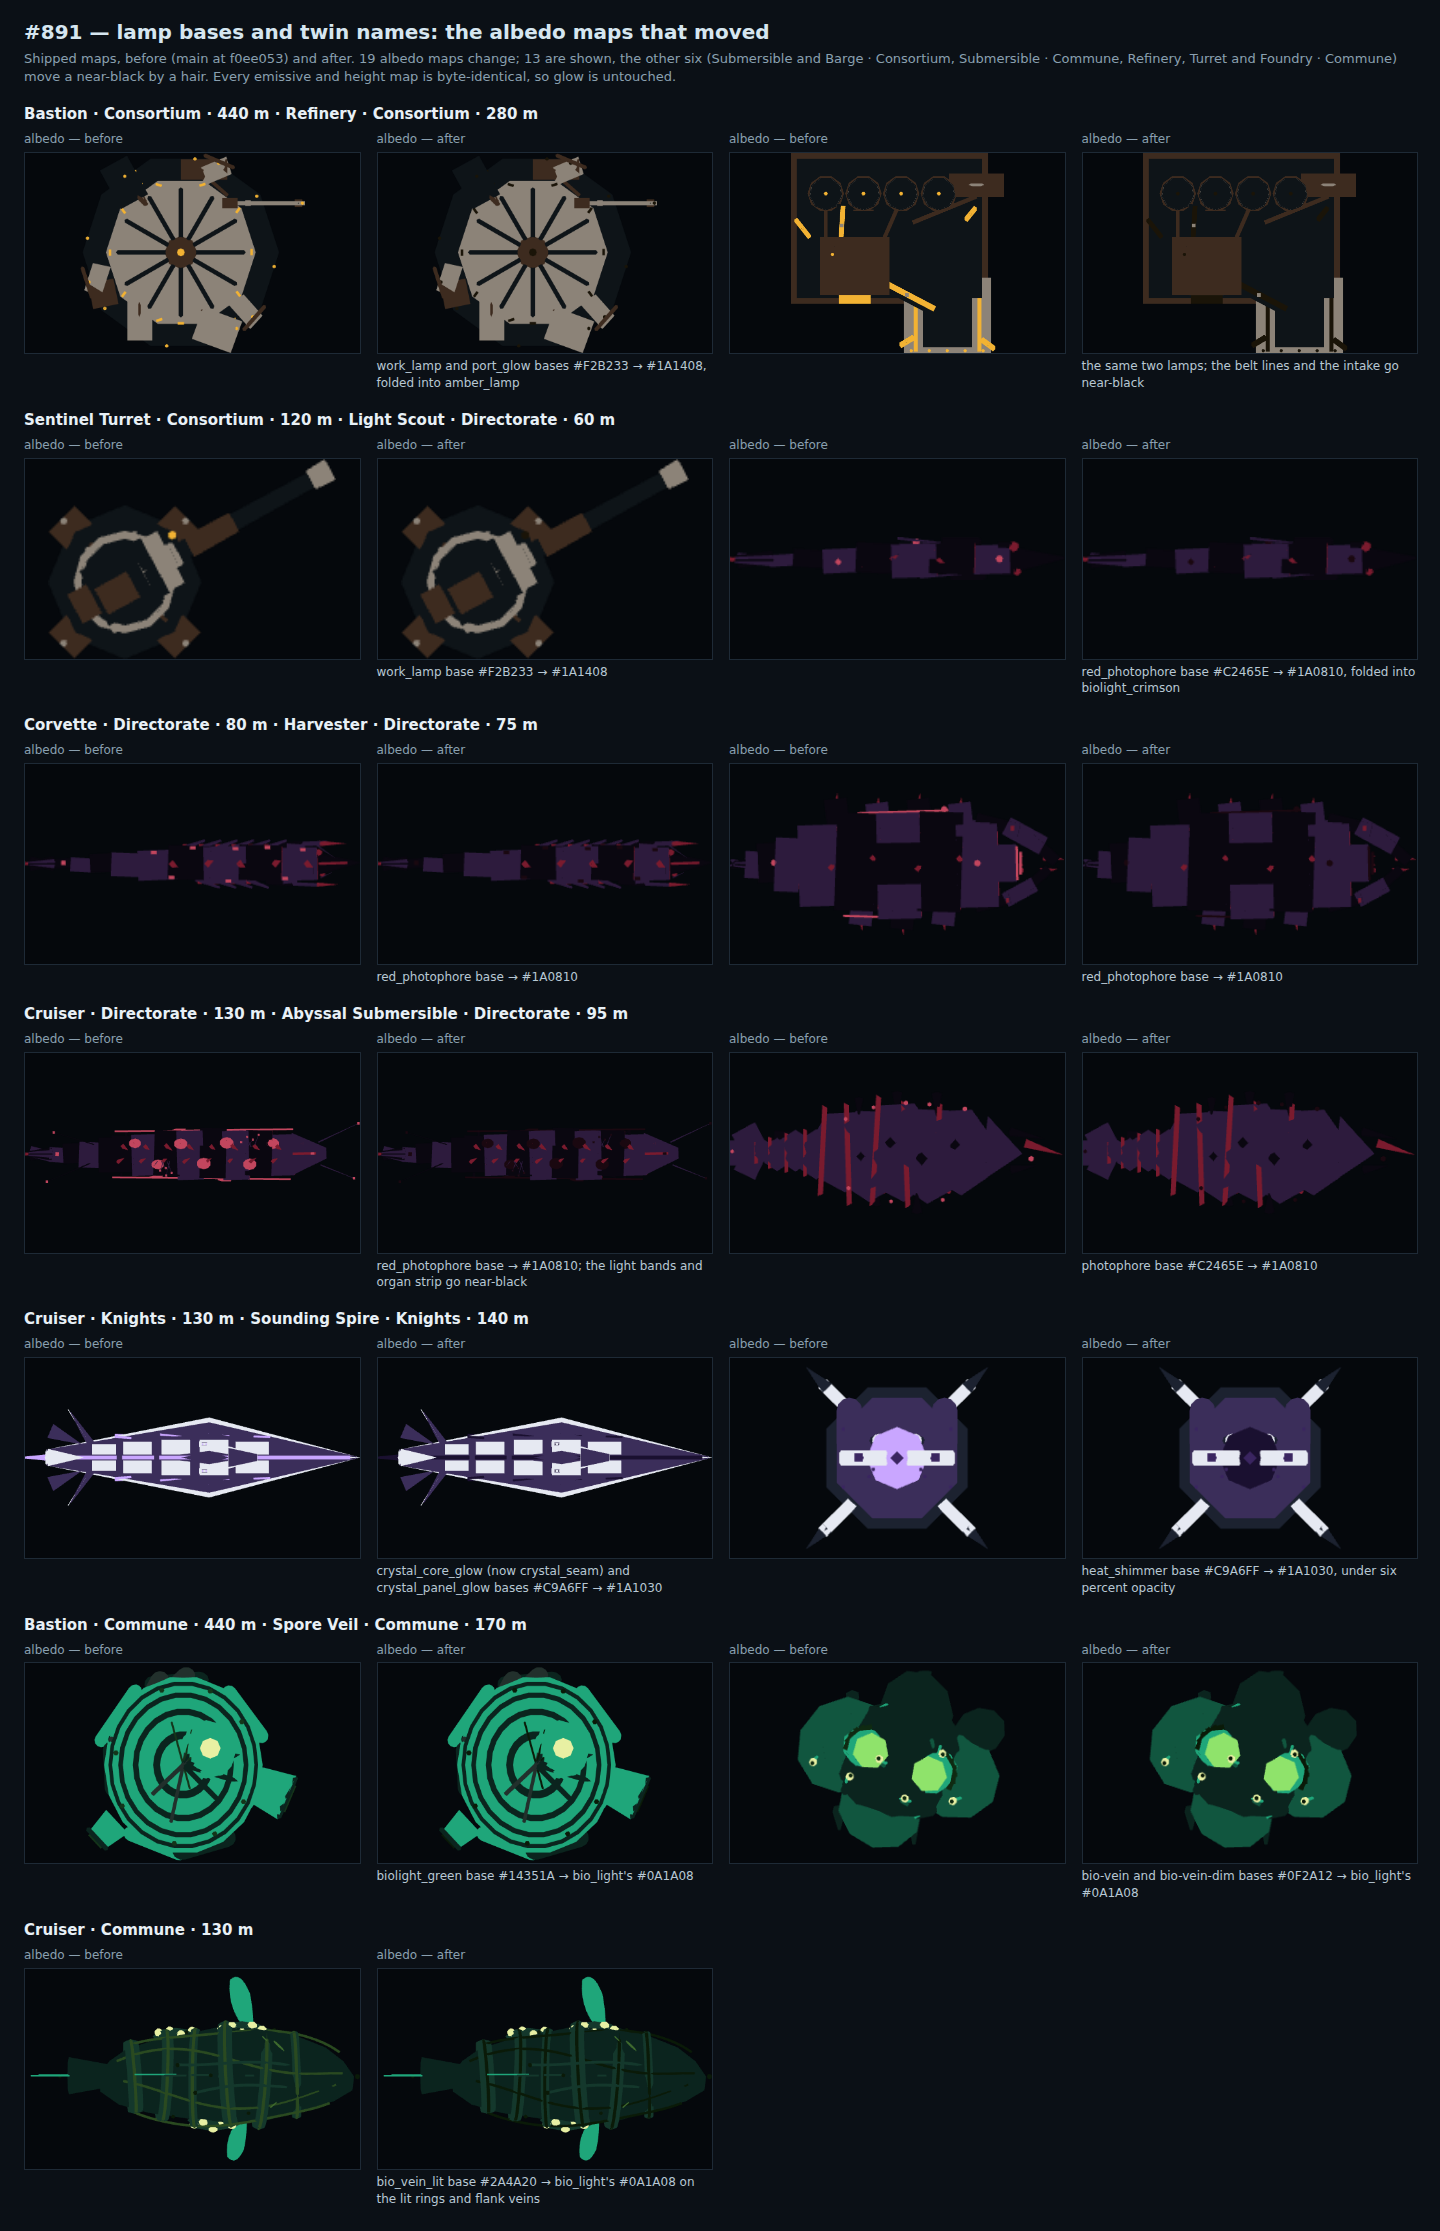
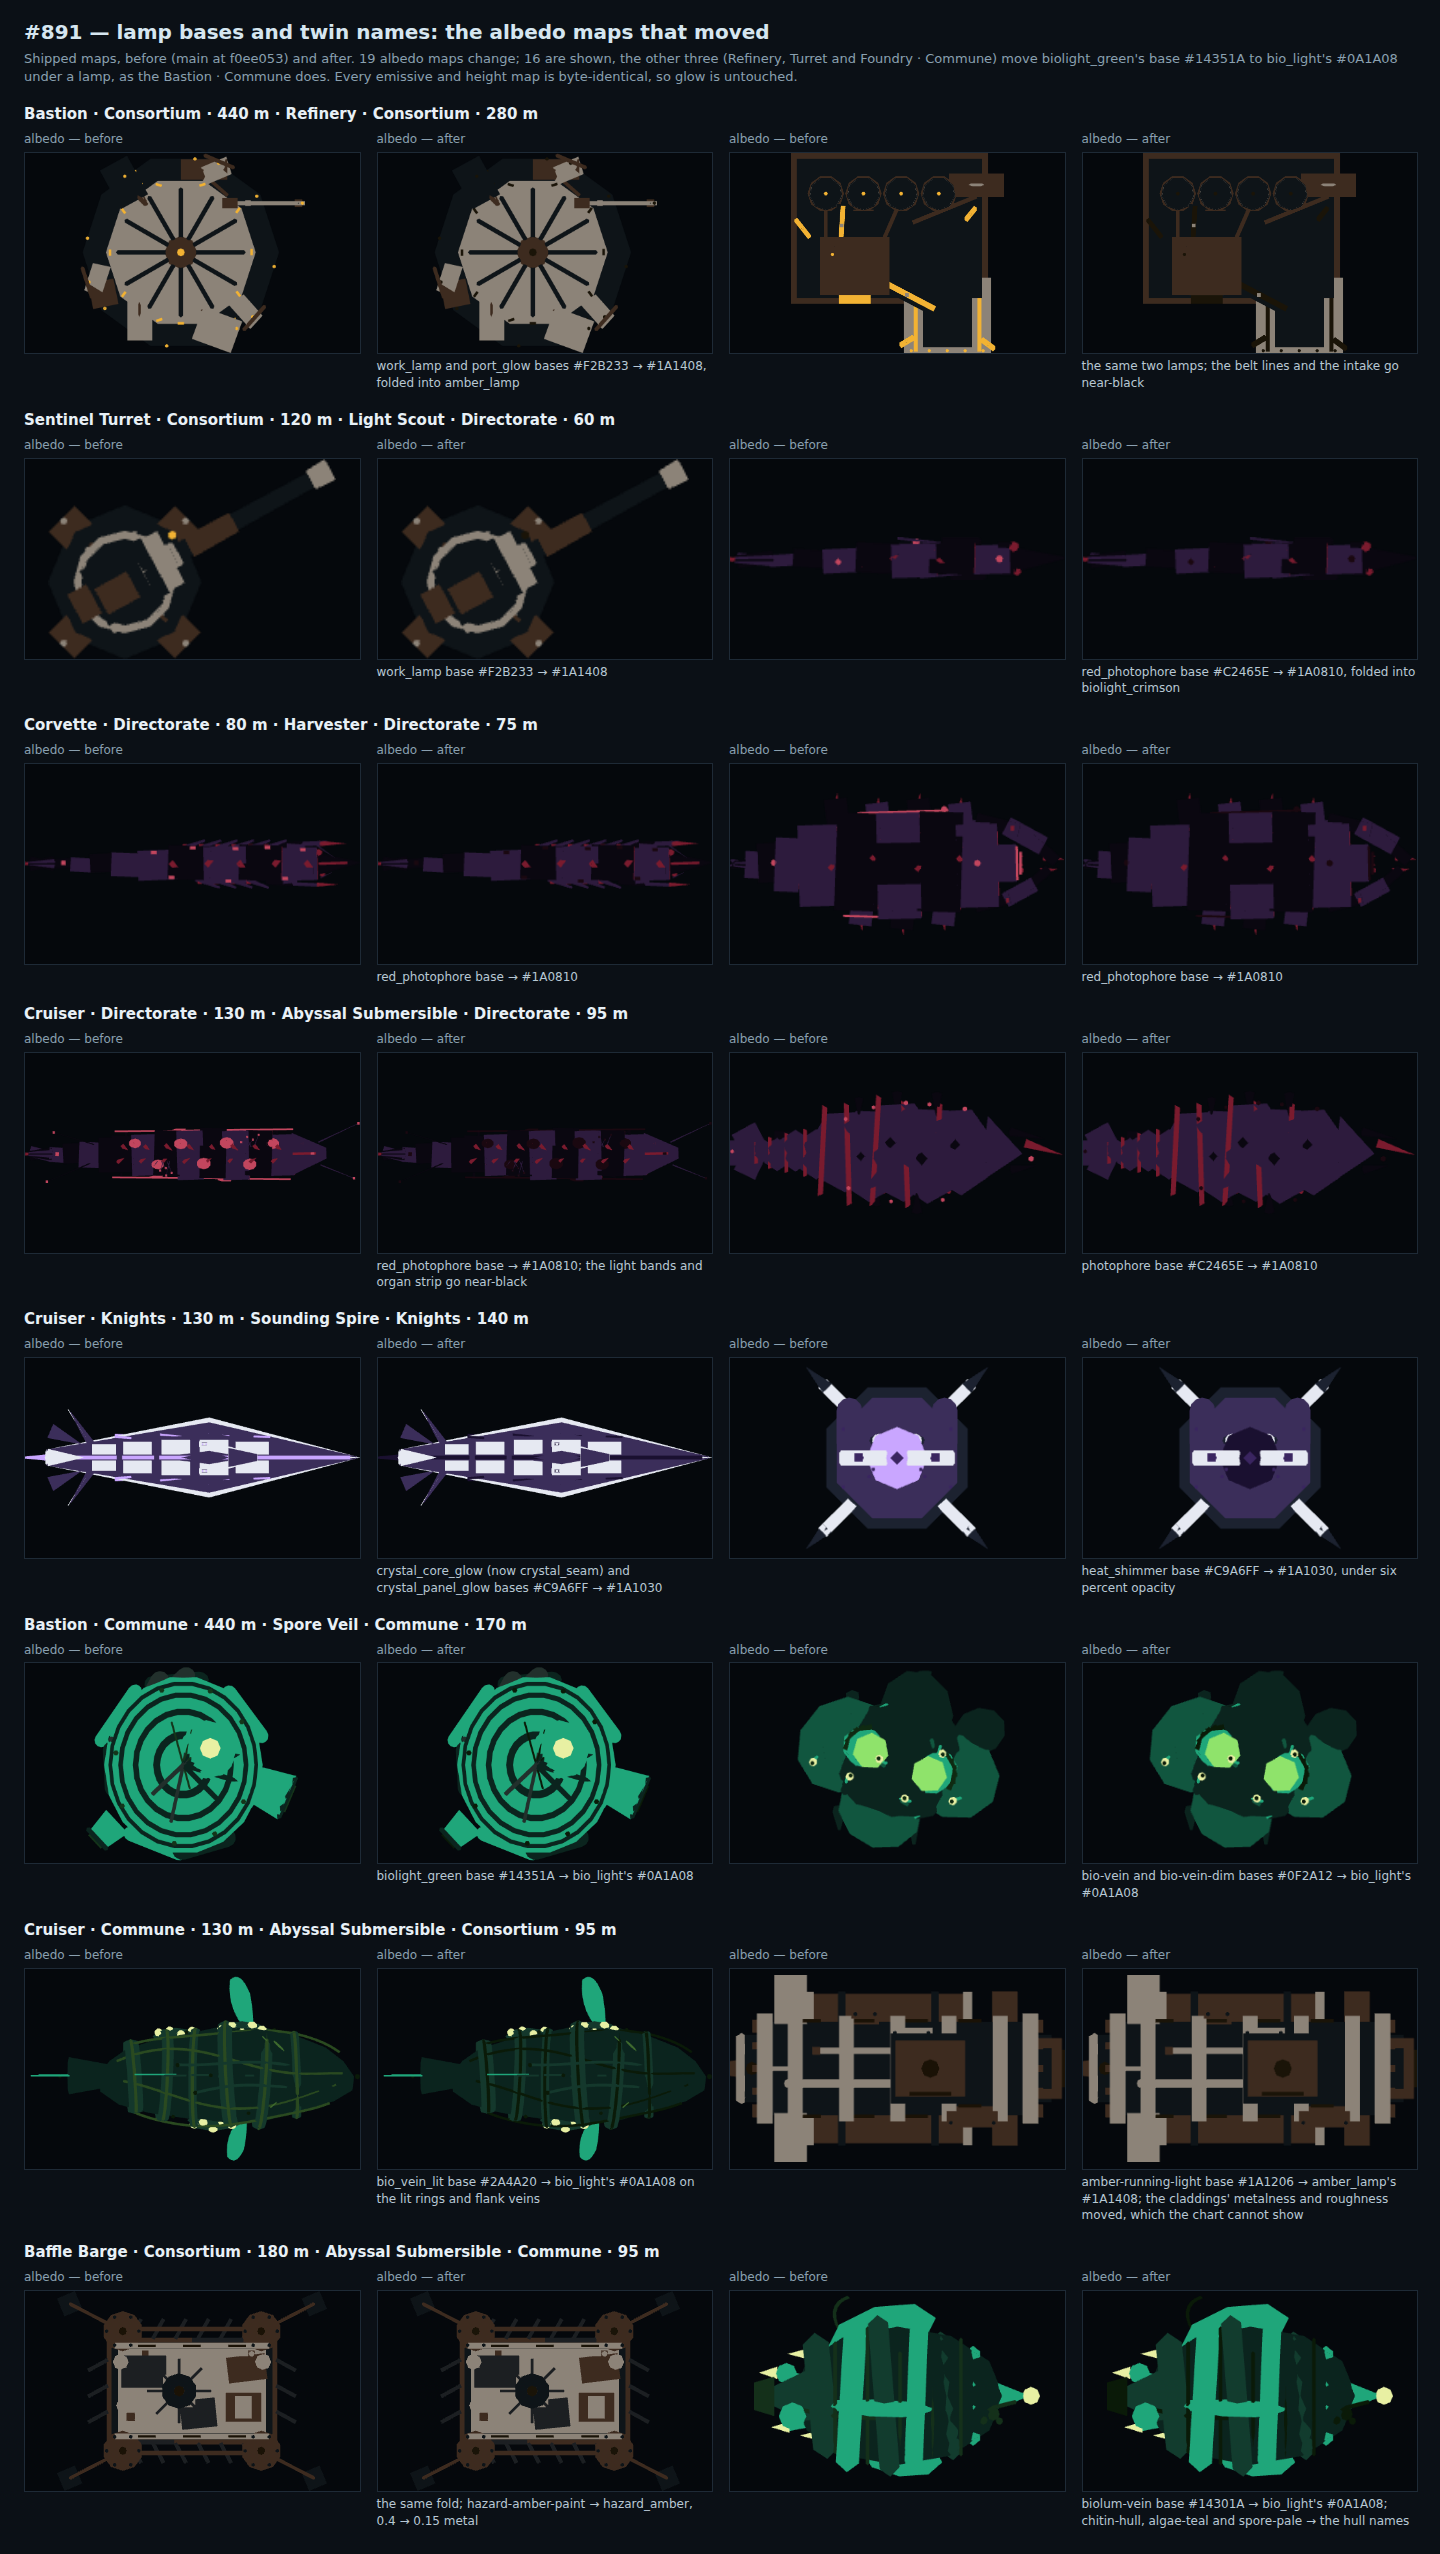
fix(models): the loop critic's findings — the count, the folds Block 2b left out, diff.mjs on two strengths (#891)
48 distinct colours, 32 in no table, since bio_vein_lit's base went. Block
2b names deep-chlorophyll's fold and the Commune Cruiser's two strengths,
and no longer says no lamp sits on its token when the Veil's haze does.
diff.mjs compares a name's strengths as a set, so the Cruiser's bio_light
at 1.6 and 1.5 reads as what it is. The Drifter sheet says what the bow
tip's pixels are; the albedo sheet shows the three maps it left out.

Claude-Session: https://claude.ai/code/session_01VmJU3T79ecK1e7KSiZtFCA

diff --git a/docs/asset-prompts-3d.md b/docs/asset-prompts-3d.md
@@ -164,7 +164,7 @@ shadow indigo #3B2E5A, crystal glow #C9A6FF.
 Block 2's four values a navy are the brief. Counted the way
 `node tools/hull-models/finishes.mjs --hexes` counts them — every base colour and every
 emissive on a model named for a navy, as sRGB hex, the environment props aside — the
-approved models carry 49 distinct values between them, and 33 of those appear in no table
+approved models carry 48 distinct values between them, and 32 of those appear in no table
 in this repository; the other sixteen are Block 2's tokens, every one of which appears.
 That looks like a breach of gate 4 in [graphics-standards.md](graphics-standards.md) —
 "never introduce an unlisted hex value" — and it is not one. The reason is worth stating once, because it
@@ -257,7 +257,7 @@ The rule is by name, so two names for one fixture passed it, and #888 left them 
 finish decision of their own. #891 made it, on the same rule — the hull value is canonical,
 and a name is the family's where the value is:
 
-- **No lamp sits on its token.** `recolor` (`rosterModels.ts`) sets a model's register
+- **No lamp but the Veil's haze sits on its token.** `recolor` (`rosterModels.ts`) sets a model's register
   by its brightest material, lamp bases included, and seven lamps carried a token as their
   base — five the same token as their light, and the Knights' panel glow and sheath the
   crystal-glow token under lights of their own. On the Consortium's Bastion, Refinery and Turret
@@ -272,8 +272,8 @@ and a name is the family's where the value is:
   name took it: `amber_lamp`, `biolight_crimson`, `crystal_seam`. The panel glow keeps its
   name for its own light, the sheath for its six percent. No strength moved — which puts
   one name on two materials inside a file for the first time, the Bastion's and the
-  Refinery's `amber_lamp` at 2.4 and 1.1 and the Veil's `bio_light` at 2.2 and 0.9: one
-  fixture at two loudnesses, which every consumer groups by material rather than by name
+  Refinery's `amber_lamp` at 2.4 and 1.1, the Veil's `bio_light` at 2.2 and 0.9 and the
+  Commune Cruiser's at 1.6 and 1.5: one fixture at two loudnesses, which every consumer groups by material rather than by name
   (`recolor`, `mergeByMaterial`, `check.mjs`), and which `parts.mjs` cannot tell apart.
   The Submersibles' and the Barge's heavier finishes went with their names, so the conn
   view shows the Consortium Submersible's grey ×1.70 brighter and its black ×1.67, from
@@ -284,7 +284,7 @@ and a name is the family's where the value is:
   `hull-black` onto `hull_black` and so on down the Consortium's five (the running light
   shared `amber_lamp`'s emissive and took its base), `chitin-hull` onto
   `chitin_hull`, `spore-pale` onto `spore_pod`, `algae-teal` onto `algae_membrane` on the
-  hull and `algae_hull` on the structure, `biolum-vein`, `bio-vein` and `bio-vein-dim`
+  hull and `algae_hull` on the structure, `deep-chlorophyll` onto `deep_chlorophyll`, `biolum-vein`, `bio-vein` and `bio-vein-dim`
   onto `bio_light` — and four kept their value and lost the hyphen only: `baffle_foam`,
   `growth_ring_dark` and `algae_teal_dark`, hexes of their own, and `spore_haze`, a fixture
   of its own.
@@ -294,11 +294,12 @@ and a name is the family's where the value is:
 
 What stayed, and why. The Knights' structures light a polished fixture of their own, the
 crystal-glow token over `#3A2560` at 0.2, under three names — `forge_light` and
-`floodlight_glow` because every navy names its Foundry's light `forge_light` and its
-Refinery's `floodlight_<own>`, and `crystal_glow` on the Bastion and the Spire — with the
+`floodlight_glow` because three navies name their Foundry's light `forge_light` and their
+Refinery's `floodlight_<own>` (the Consortium's works light `amber_lamp`), and `crystal_glow`
+on the Bastion and the Spire — with the
 turret's `nav_light` over `#241744` at 0.3: a family polished past the hulls' 0.4, as
 `alloy_white` is to `pale_alloy`, and one value under three names because the works' names
-onto `crystal_glow` would part the Order's Foundry from every other navy's and `crystal_glow`
+onto `crystal_glow` would part the Order's Foundry from the other two and `crystal_glow`
 onto a works' name would misname the settlement's lamp. `growth_ring_dark` (`#123C2E`) sits a
 shade off `growth_ridge` (`#14382C`) and stays, the rule being by hex. `deep_chlorophyll`
 and `algae_hull` are the Commune's
